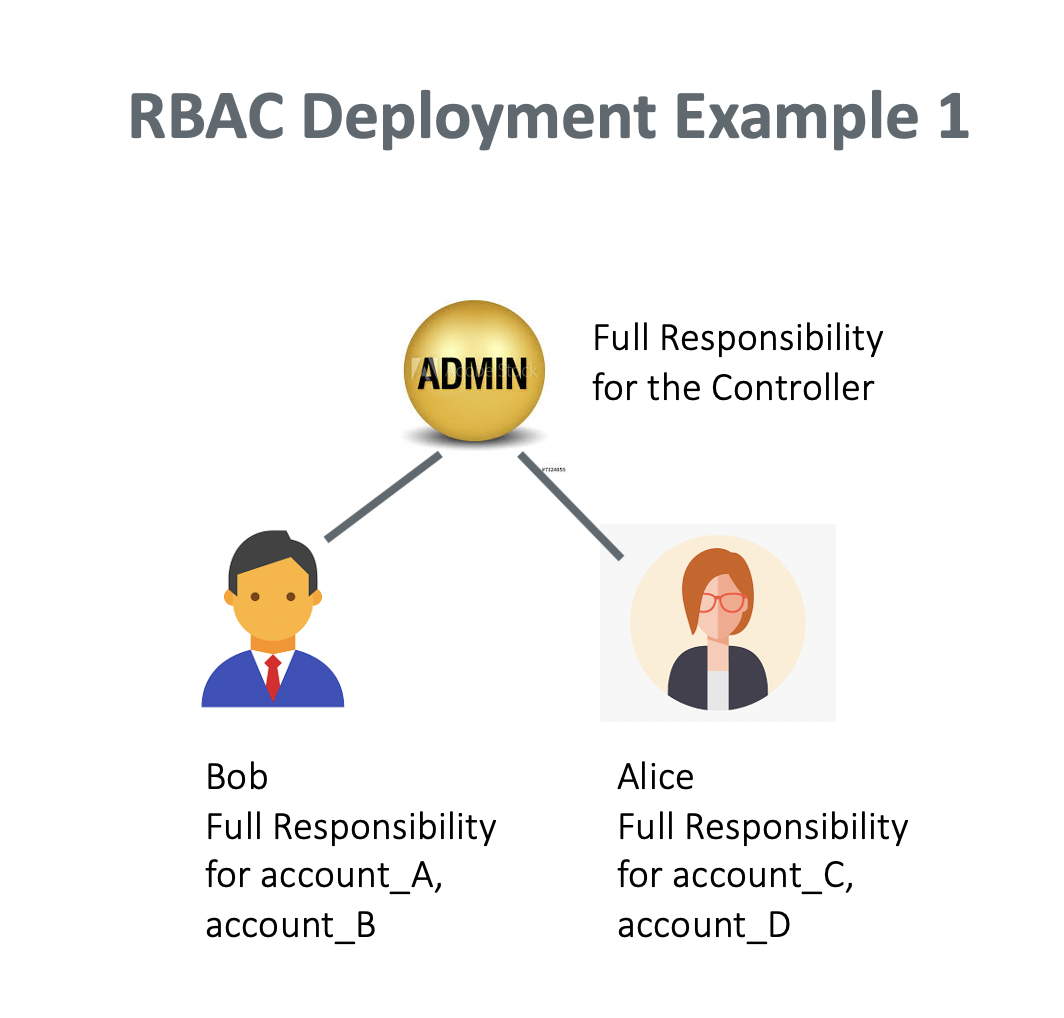
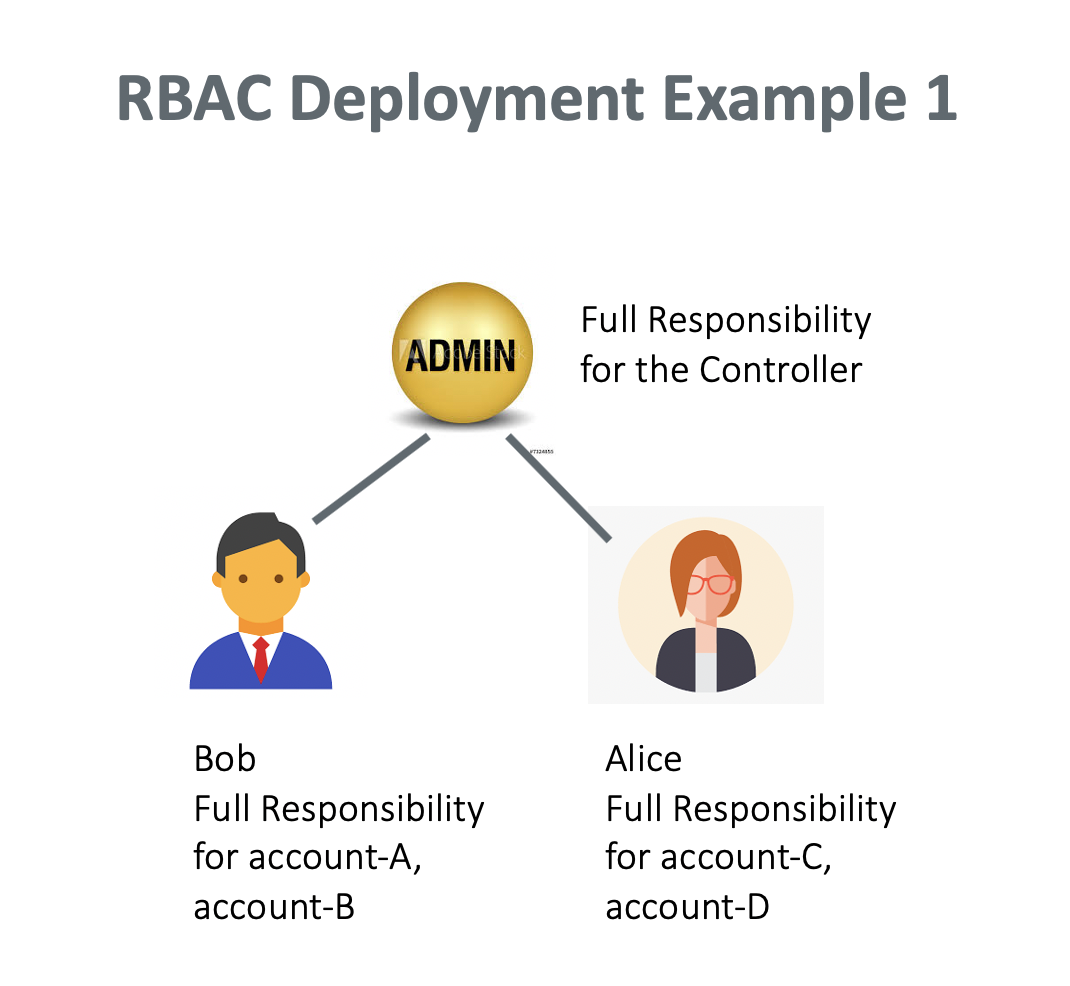
update rbac special character

diff --git a/HowTos/rbac_faq.rst b/HowTos/rbac_faq.rst
@@ -28,30 +28,30 @@ The best way to explain how RBAC works is through examples. Following are a few 
 RBAC Deployment Example 1
 ---------------------------
 
-In this example, the Controller admin creates a user Bob who has full responsibility to access account account_A and account_B. The Controller
-admin also creates a user Alice who has full responsibility to access account_B and account_C..
+In this example, the Controller admin creates a user Bob who has full responsibility to access account account-A and account-B. The Controller
+admin also creates a user Alice who has full responsibility to access account-B and account-C.
 
 |rbac_example_1|
 
 
-**Step 1** Create an account admin group.  Admin Login. Go to Accounts -> Permission Groups -> +Add New. Give the group a name, for example, account_admins. 
+**Step 1** Create an account admin group.  Admin Login. Go to Accounts -> Permission Groups -> +Add New. Give the group a name, for example, account-admins. 
 
 **Step 2** Give this group the privilege to create Access Accounts. Go to Accounts -> Permission Groups. Click the 3 skewer dots, click Manage Permission. Click +Add New. Select Accounts in the list of functions. Click OK to confirm. 
 
-**Step 3** Create user Bob to the account_admins group. Go to Account Users -> +New User. Fill the name, Bob, and other fields. For the field RBAC Groups, select account_admins created in Step 1. 
+**Step 3** Create user Bob to the account_admins group. Go to Account Users -> +New User. Fill the name, Bob, and other fields. For the field RBAC Groups, select account-admins created in Step 1. 
 
-**Step 4** Bob should receive an email to invite him to access the Controller. Bob login. Bob creates a new permission group with full access. Go to Accounts -> Permission Groups -> +Add New. Fill permission group name, for example, group_bob. 
+**Step 4** Bob should receive an email to invite him to access the Controller. Bob login. Bob creates a new permission group with full access. Go to Accounts -> Permission Groups -> +Add New. Fill permission group name, for example, group-bob. 
 
-**Step 5** Bob associates himself with the group_bob. Go to Accounts -> Permission Groups. Select bob_group, click Manage users. Select Bob to associate with the group. 
+**Step 5** Bob associates himself with the group_bob. Go to Accounts -> Permission Groups. Select bob-group, click Manage users. Select Bob to associate with the group. 
 
-**Step 6** Bob grants bob_group functional functional privilege. Go to Accounts -> Permission Groups. Select group_bob. Click Manage permissions. Click ALLWrite to grant group_bob  
+**Step 6** Bob grants group-bob functional functional privilege. Go to Accounts -> Permission Groups. Select group-bob. Click Manage permissions. Click ALLWrite to grant group-bob  
 
-**Step 7** Bob creates a new Access Account account_A. Bob login. Go to Accounts -> Access Accounts -> +Add New. For the field "Attach to RBAC Groups", select group_bob. This creates an access account that associates a cloud account that Bob manages. For the Account Name field, Bob enters account_A. 
+**Step 7** Bob creates a new Access Account account-A. Bob login. Go to Accounts -> Access Accounts -> +Add New. For the field "Attach to RBAC Groups", select group-bob. This creates an access account that associates a cloud account that Bob manages. For the Account Name field, Bob enters account-A. 
 
 
-Bob can repeat **Step 7** to create account_B. Now Bob has full functional access to both account_A and account_B.
+Bob can repeat **Step 7** to create account-B. Now Bob has full functional access to both account-A and account-B.
 
-Follow **Step 3** to **Step 7** for Alice to manage account_C and account_D.
+Apply **Step 3** to **Step 7** for Alice to manage account-C and account-D.
 
 
 .. |rbac_example_1| image:: rbac_faq_media/rbac_example_1.png
